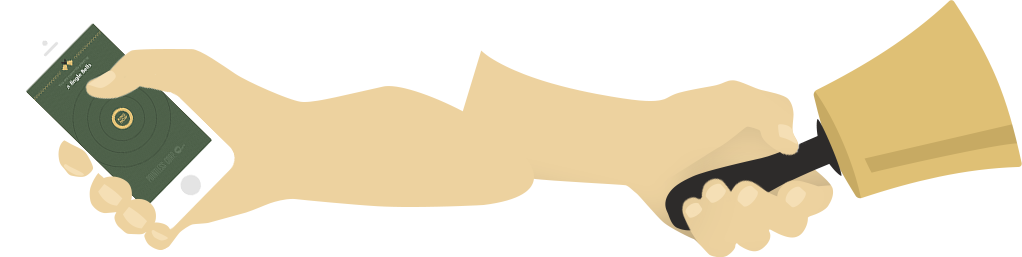
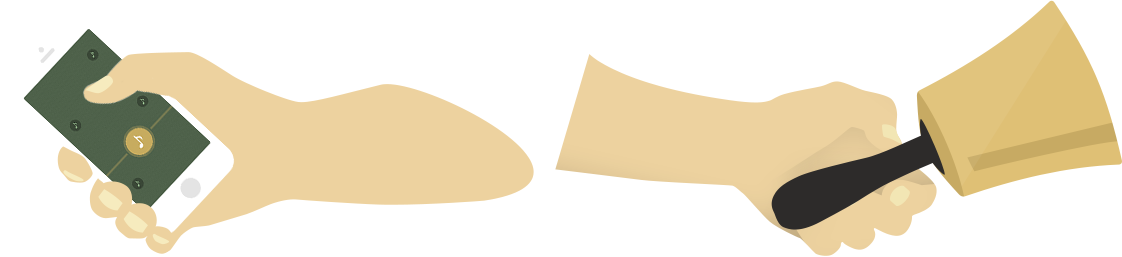
swtiched out some assets and added background stitching

diff --git a/src/sass/components/_header.scss b/src/sass/components/_header.scss
@@ -13,9 +13,16 @@
   }
 
   .logo-bells {
+    background: url(../images/logo-bells.png) no-repeat center;
+    display: block;
     height: 43px;
     margin: 0 auto;
     width: 60px;
+
+    @include bp-retina {
+      background: url(../images/logo-bells@2x.png) no-repeat center;
+      background-size: 60px 43px;
+    }
   }
 
   .tagline {
@@ -29,33 +36,34 @@
     }
   }
 
-  @include bp-tablet {
-    padding: 40px 0;
-  }
-
   body.home & {
     position: relative;
     margin-bottom: 40px;
 
     &:before {
-      background: $color--forest--light;
+      background: url(../images/header-stitch.png) no-repeat center;
       bottom: 0px;
       content: "";
       display: block;
-      height: 6px;
+      height: 13px;
       left: 50%;
-      margin-left: -50px;
+      margin-left: -109px;
       position: absolute;
-      width: 100px;
+      width: 210px;
+
+      @include bp-retina {
+        background: url(../images/header-stitch@2x.png) no-repeat center;
+        background-size: 210px 13px;
+      }
     }
   }
 
   body.play &,
   body.home & {
-    padding: 30px 0 40px;
+    padding: 30px 0 26px;
 
     @include bp-mobile-only {
-      padding: 15px 0 40px;
+      padding: 15px 0 37px;
 
       .logo-bells,
       .logo-text {

diff --git a/src/sass/base/_layout.scss b/src/sass/base/_layout.scss
@@ -1,28 +1,39 @@
 // Variables
 
 $body-font             : "soleil", "Helvetica Nueu", Helvetica, Arial, sans-serif;
-$base-font-size        : 18px;
-$large-font-size       : 20px;
+$base-font-size        : 16px;
+$large-font-size       : 18px;
 $base-line-height      : 24px / $base-font-size;
 $base-font-color       : #fff;
 $base-background-color : $color--forest;
 
 // Styles
 
-html, body {
-  background: $base-background-color;
+html {
   height: 100%;
+}
+
+html, body {
+  box-sizing: border-box;
   max-width: 100%;
+  min-height: 100%;
 }
 
 body {
+  background: url('../images/bg-stitch.png') repeat center;
   color: $base-font-color;
   line-height: $base-line-height;
   margin: 0;
   padding: 0;
+  position: relative;
 
   * {
     box-sizing: border-box;
+  }
+
+  @include bp-retina {
+    background: url('../images/bg-stitch@2x.png') repeat center;
+    background-size: 120px 118px;
   }
 }
 
@@ -41,6 +52,7 @@ body {
 
 .wrap {
   @include wrap;
+  padding-bottom: 60px;
 }
 
 .thin-wrap {

diff --git a/src/sass/config/_breakpoints.scss b/src/sass/config/_breakpoints.scss
@@ -65,3 +65,21 @@ $bp-tall                : "(min-height: 650px)";
     @content;
   }
 }
+
+@mixin bp-tall {
+  @media #{$bp-tall} {
+    @content;
+  }
+}
+
+@mixin bp-retina {
+  @media
+    only screen and (-webkit-min-device-pixel-ratio: 1.5),
+    only screen and (min--moz-device-pixel-ratio: 1.5),
+    only screen and (-o-min-device-pixel-ratio: 2/1),
+    only screen and (min-device-pixel-ratio: 1.5),
+    only screen and (min-resolution: 192dpi),
+    only screen and (min-resolution: 2dppx) {
+    @content;
+  }
+}

diff --git a/src/sass/pages/_home.scss b/src/sass/pages/_home.scss
@@ -38,11 +38,11 @@ body.home {
 
       &:before,
       &:after {
-        background: url('/images/hands.jpg') no-repeat;
+        background: url('/images/hands2.png') no-repeat center;
         content: "";
         height: 257px;
         position: absolute;
-        top: 400px;
+        top: 340px;
         width: 1122px;
         z-index: 0;
       }

diff --git a/src/sass/base/_buttons.scss b/src/sass/base/_buttons.scss
@@ -29,7 +29,13 @@
 
   // Sizes
   &.-large {
-    padding: 20px 40px;
+    @include bp-tall {
+      padding: 20px 40px;
+    }
+
+    @include bp-mobile-only {
+      padding: 20px 40px;
+    }
   }
 
   // Shapes
